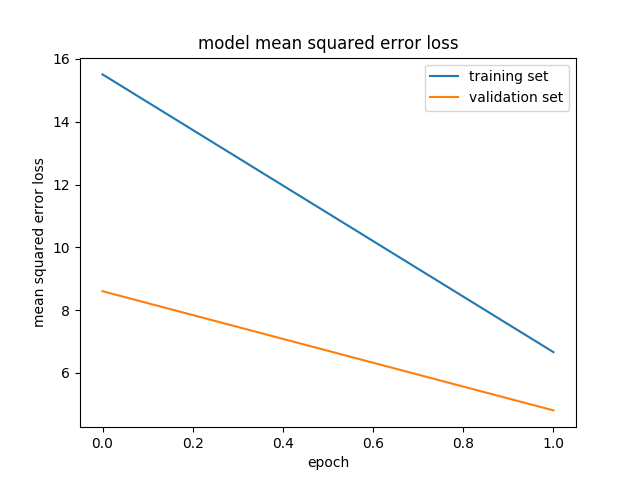
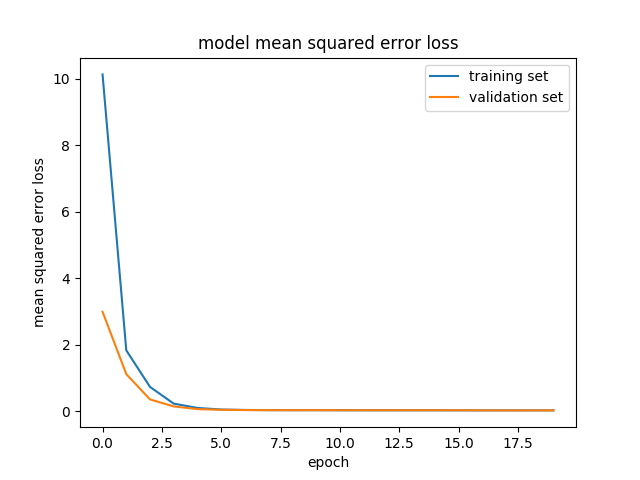
adding long training profile image

diff --git a/CarND-Behavioral-Cloning-P3/model.py b/CarND-Behavioral-Cloning-P3/model.py
@@ -9,6 +9,7 @@ from keras import regularizers
 import cv2
 import numpy as np
 import sklearn
+import matplotlib.pyplot as plt
 
 # Load simulation data
 samples = []
@@ -75,6 +76,20 @@ train_steps = len(train_samples)/batch_size
 print(train_steps)
 validation_steps = len(validation_samples)/batch_size
 
-model.fit_generator(train_generator, steps_per_epoch=train_steps,
-            validation_data=validation_generator,
-             validation_steps=validation_steps, nb_epoch=10)
+history_object   = model.fit_generator(train_generator,
+                    steps_per_epoch=train_steps,
+                    validation_data=validation_generator,
+                    validation_steps=validation_steps, nb_epoch=10, verbose=1)
+
+
+### print the keys contained in the history object
+print(history_object.history.keys())
+
+### plot the training and validation loss for each epoch
+plt.plot(history_object.history['loss'])
+plt.plot(history_object.history['val_loss'])
+plt.title('model mean squared error loss')
+plt.ylabel('mean squared error loss')
+plt.xlabel('epoch')
+plt.legend(['training set', 'validation set'], loc='upper right')
+plt.show()

diff --git a/CarND-Behavioral-Cloning-P3/README.md b/CarND-Behavioral-Cloning-P3/README.md
@@ -88,6 +88,6 @@ After the collection process, I had 14820 number of data points. I then used hal
 
 I finally randomly shuffled the data set and put 50% of the data into a validation set. 
 
-I used this training data for training the model. The validation set helped determine if the model was over or under fitting. The ideal number of epochs was 10 as evidenced by the monotonic drop in the validation error also seen in the figure below. I used an adam optimizer so that manually training the learning rate wasn't necessary.
+I used this training data for training the model. The validation set helped determine if the model was over or under fitting. The ideal number of epochs was 10 as the training as well as validation error plateaus past this epoch. This behavior is seen in the error profile shown below. I used an adam optimizer so that manually training the learning rate wasn't necessary.
 
 ![alt_text][image8]
